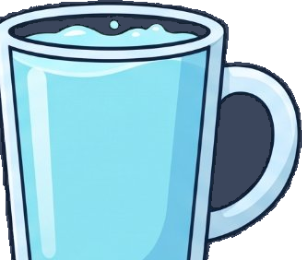
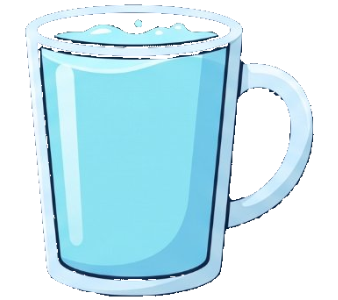
v1.0.8：修复水杯被切掉
- 素材按等分五格切，第一只杯子的把手正好跨在格子边界上被裁掉，杯底也削平了
- 改为按列投影找每只杯子的实际范围再逐个裁切，五只都是完整造型
- 杯身内部的棋盘格（源图用来表示透明的图案）一并抠成透明，不会再在卡片上露出格子
- 杯子高度按素材实际比例算（frame_aspect），不再写死 260/302

diff --git a/card.py b/card.py
@@ -287,14 +287,19 @@ class MainCard(QWidget):
     # ------------------------------------------------------------ 刷新
 
     def _place_cup(self) -> None:
-        """杯子纵向从「距离下班」跨到久坐进度条底部。"""
+        """杯子放在「距离下班」到久坐进度条之间的右侧，按素材比例竖着居中。"""
         if not hasattr(self, "cup"):
             return
         zone_top = self.caption.mapTo(self, QPoint(0, 0)).y()
         zone_bottom = self.sit_bar.mapTo(self, QPoint(0, 0)).y() + self.sit_bar.height()
         width = 72
-        height = int(width * 260 / 302)          # 和素材同比例，避免留白不均
-        top = zone_top + max(0, (zone_bottom - zone_top - height) // 2)
+        height = max(40, int(round(width * self.cup.frame_aspect())))
+        # 区域装不下就缩，别让杯子戳出卡片
+        room = max(40, zone_bottom - zone_top)
+        if height > room:
+            height = room
+            width = max(40, int(round(height / self.cup.frame_aspect())))
+        top = zone_top + max(0, (room - height) // 2)
         left = self.width() - 16 - width
         self.cup.setGeometry(left, top, width, height)
 

diff --git a/cup.py b/cup.py
@@ -87,6 +87,13 @@ class DrinkCup(QWidget):
                 break
         return _pixmap(FRAMES[index])
 
+    def frame_aspect(self) -> float:
+        """高 / 宽。外部按这个比例摆位置，画的时候就不会被拉伸或留空。"""
+        src = self._frame()
+        if src.isNull() or src.width() == 0:
+            return 0.887
+        return src.height() / src.width()
+
     def paintEvent(self, event) -> None:  # noqa: N802
         src = self._frame()
         if src.isNull():

diff --git a/config.py b/config.py
@@ -9,7 +9,7 @@ from pathlib import Path
 
 APP_NAME = "DeskMate"
 APP_TITLE = "工位伴侣"
-APP_VERSION = "1.0.7"
+APP_VERSION = "1.0.8"
 
 def _resolve_data_dir() -> Path:
     """默认存 %APPDATA%；如果 exe 旁边有 portable.txt，就存到 exe 同级的 DeskMate-data。

diff --git a/CHANGELOG.md b/CHANGELOG.md
@@ -1,5 +1,10 @@
 # 更新日志
 
+## 1.0.8
+- 修复水杯右侧和底部被切掉：之前按「等分五格」切素材，第一只杯子的把手正好跨在格子边界上，
+  被硬生生裁掉了。现在改成按列投影找每只杯子的实际范围再逐个裁切，五只都是完整的
+- 杯子尺寸改为按素材实际比例计算，不再写死比例，避免以后再出现留白不均或溢出
+
 ## 1.0.7
 - 修复自动更新后打不开（弹 Failed to load Python DLL）：不再用批处理，改成程序自己完成替换
 - 替换流程改为「把自己改名备份 → 新文件就位 → 拉起新进程」，新进程真正跑起来才算成功，起不来会自动还原上一版
